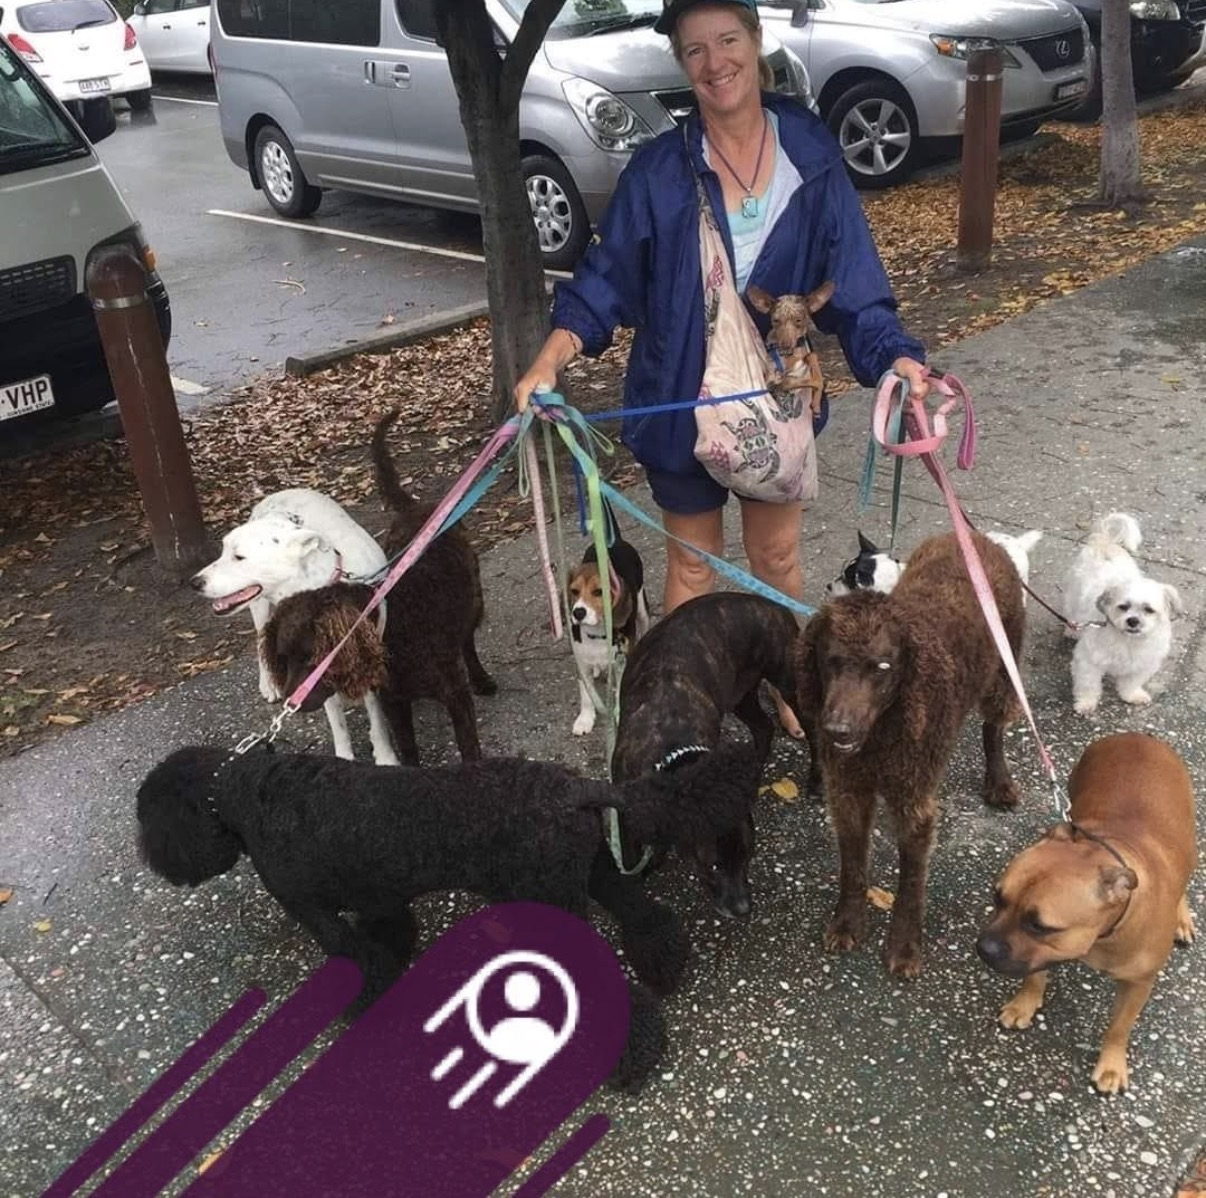
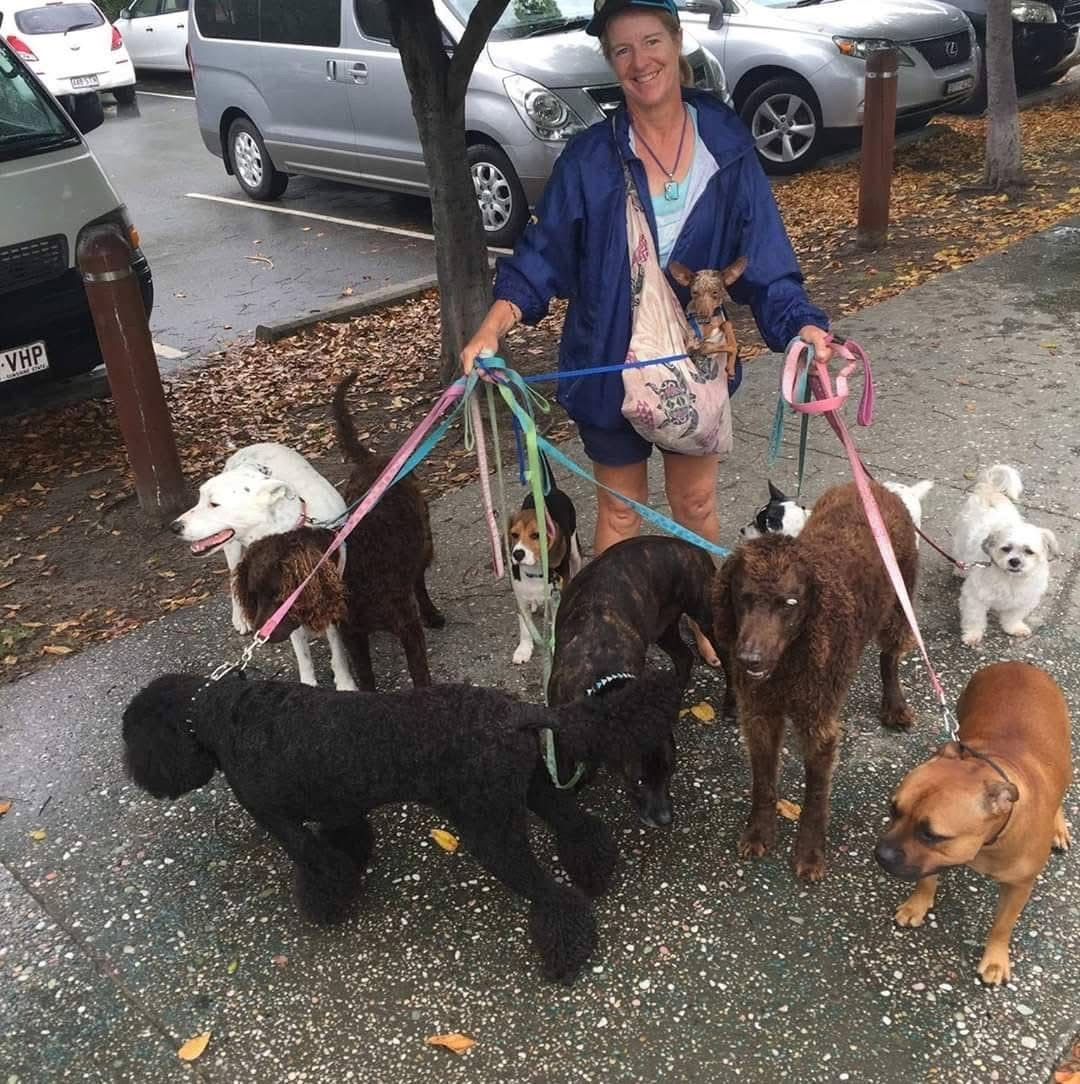
Replace hero image with watermark-free photo, soften CSS overlay
Swapped hero.jpg with clean photo of Nikki with dogs (1080x1084).
Reduced bottom gradient overlay from 25%/0.95 to 15%/0.6 since
watermark hiding is no longer needed. Adjusted object-position
and HTML dimensions to match new image.

diff --git a/index.html b/index.html
@@ -153,7 +153,7 @@
                     <p class="hero-trust-line" data-hero-reveal><span data-count="20" data-suffix="">0</span> years experience · <span data-count="92" data-suffix="%">0%</span> recommended · Gold Coast local</p>
                 </div>
                 <div class="hero-photo-wrapper" data-hero-reveal>
-                    <img src="assets/hero.jpg" alt="Nikki Logan with a pack of happy dogs on the Gold Coast" class="hero-photo" width="1206" height="1198">
+                    <img src="assets/hero.jpg" alt="Nikki Logan with a pack of happy dogs on the Gold Coast" class="hero-photo" width="1080" height="1084">
                 </div>
             </div>
             <div class="hero-scroll" aria-hidden="true">

diff --git a/styles.css b/styles.css
@@ -582,15 +582,15 @@ h3 {
     pointer-events: none;
 }
 
-/* Bottom gradient — hides watermark */
+/* Bottom gradient — subtle blend into background */
 .hero-photo-wrapper::after {
     content: '';
     position: absolute;
     bottom: 0;
     left: 0;
     right: 0;
-    height: 25%;
-    background: linear-gradient(to bottom, transparent 0%, rgba(61, 32, 85, 0.95) 100%);
+    height: 15%;
+    background: linear-gradient(to bottom, transparent 0%, rgba(61, 32, 85, 0.6) 100%);
     z-index: 1;
     pointer-events: none;
 }
@@ -599,7 +599,7 @@ h3 {
     width: 100%;
     height: 100%;
     object-fit: cover;
-    object-position: center 20%;
+    object-position: center 15%;
 }
 
 .hero-badge {
